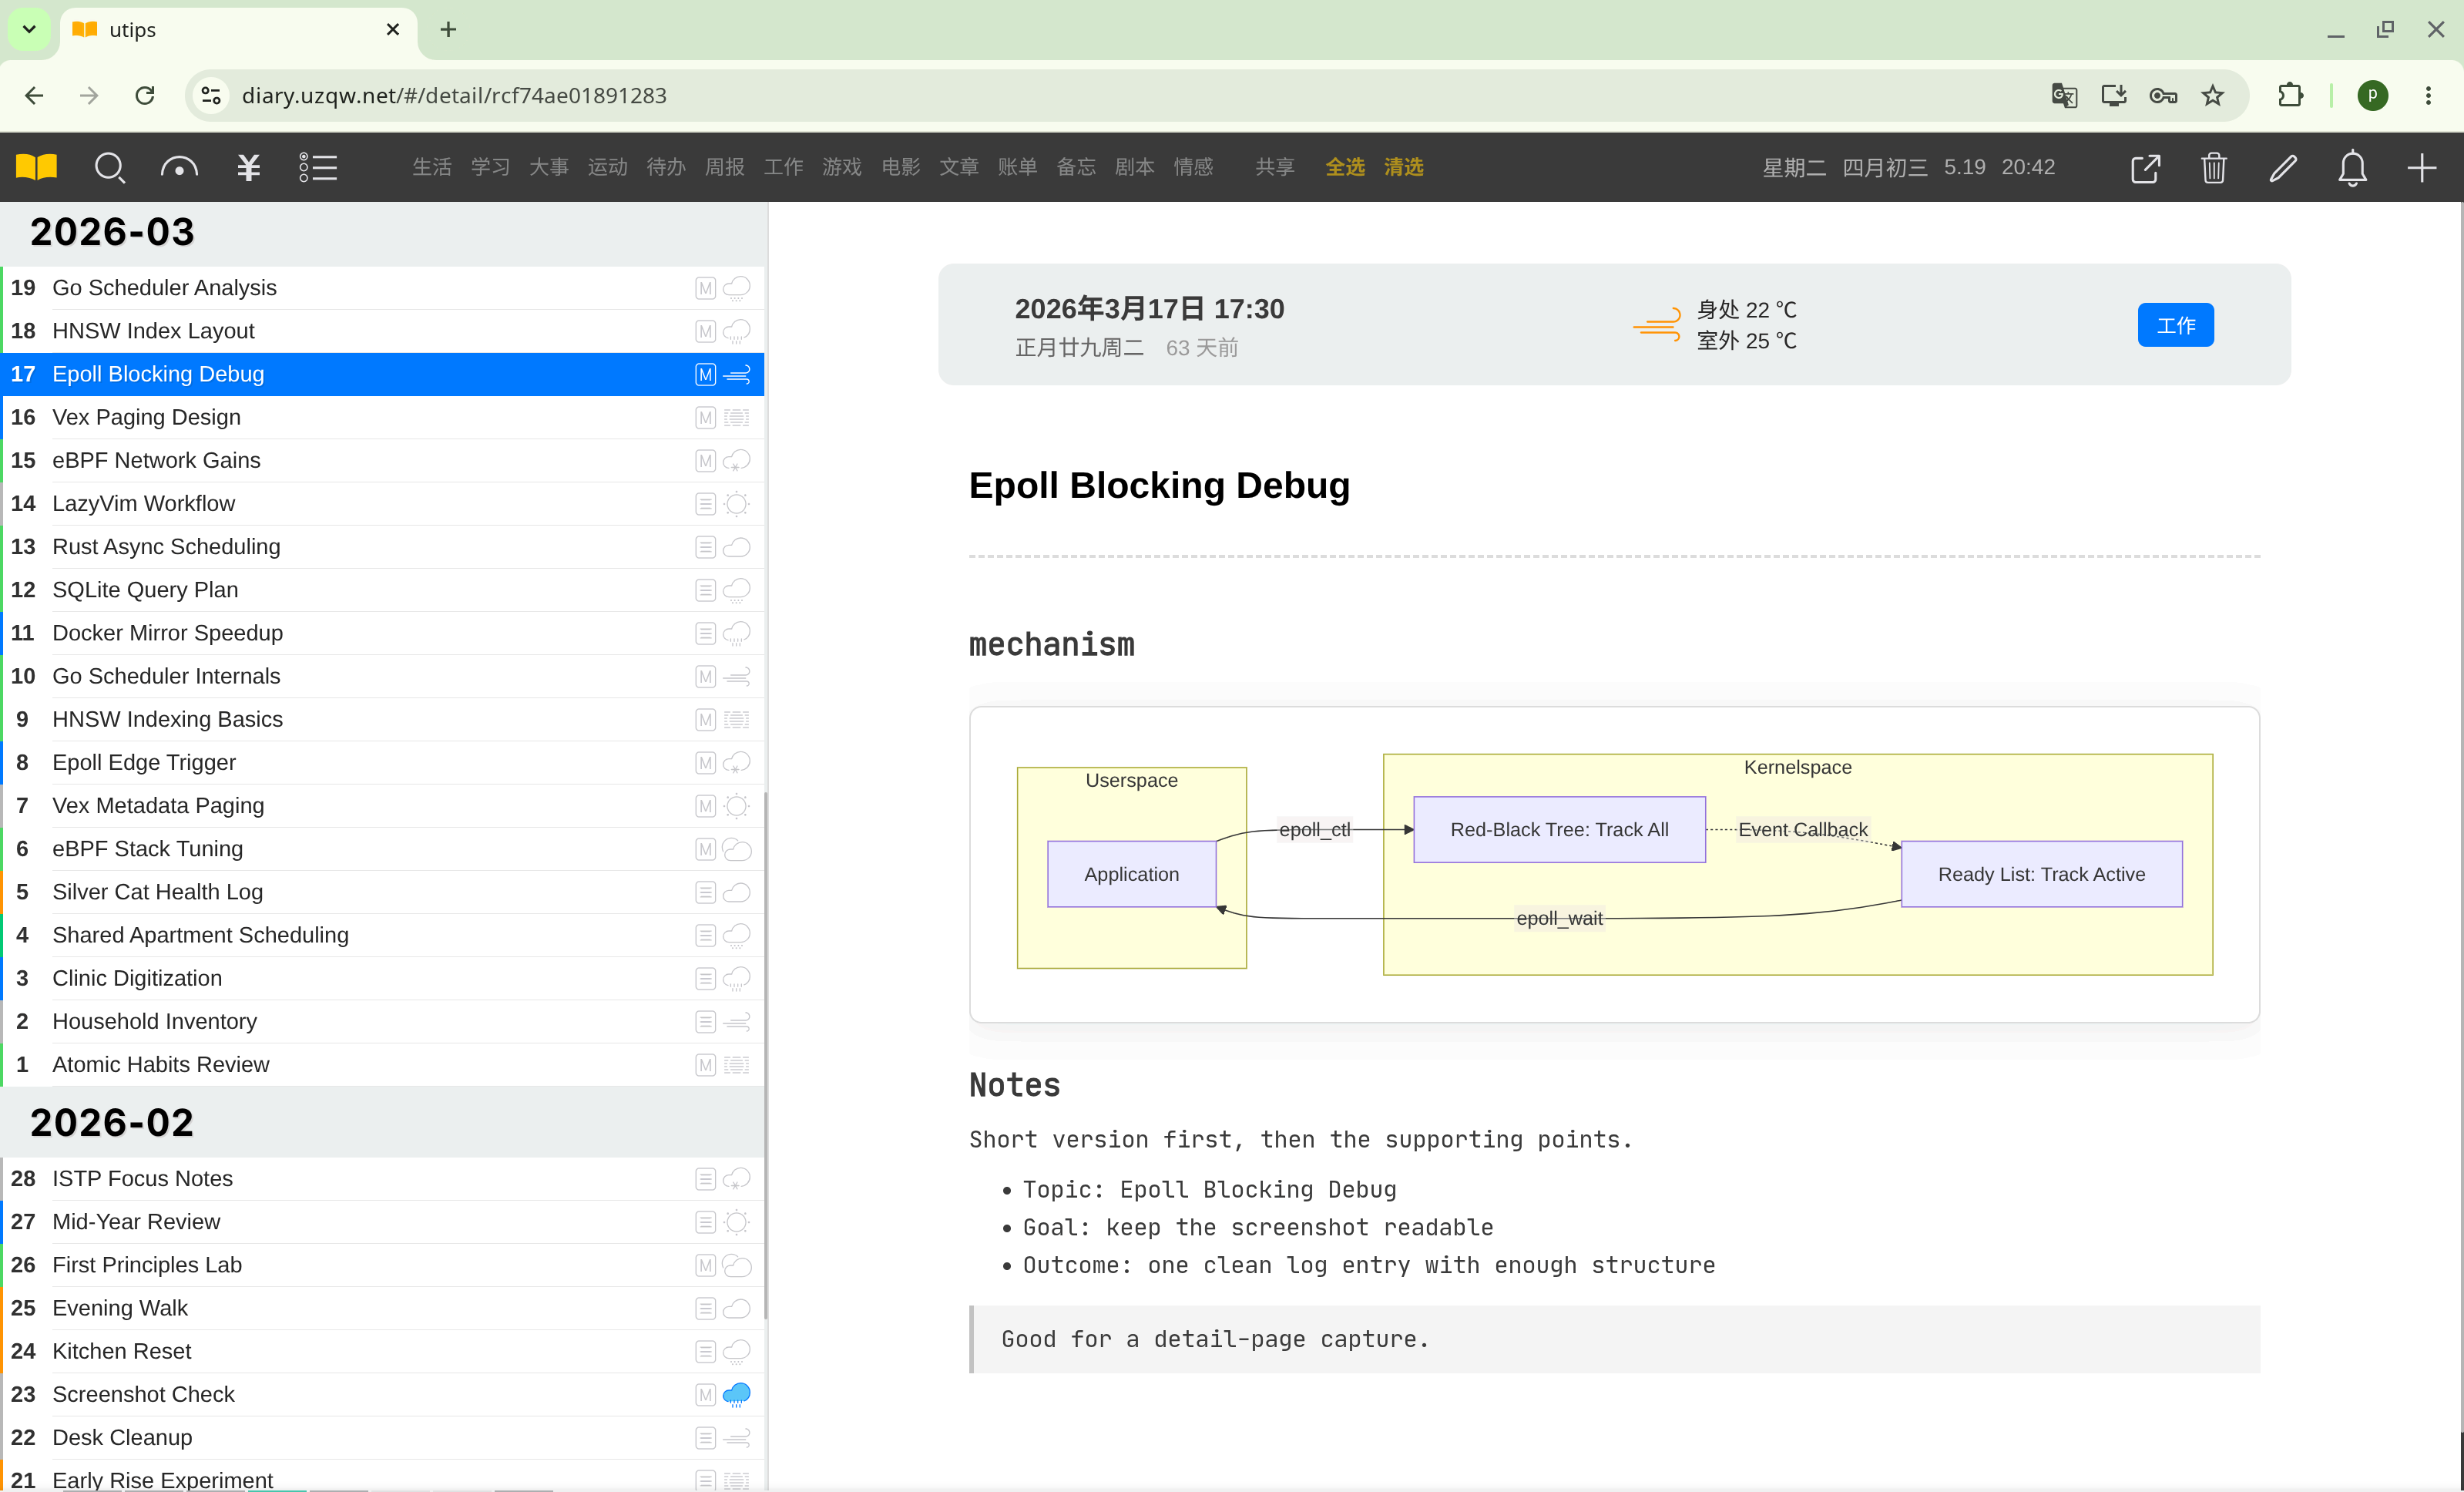
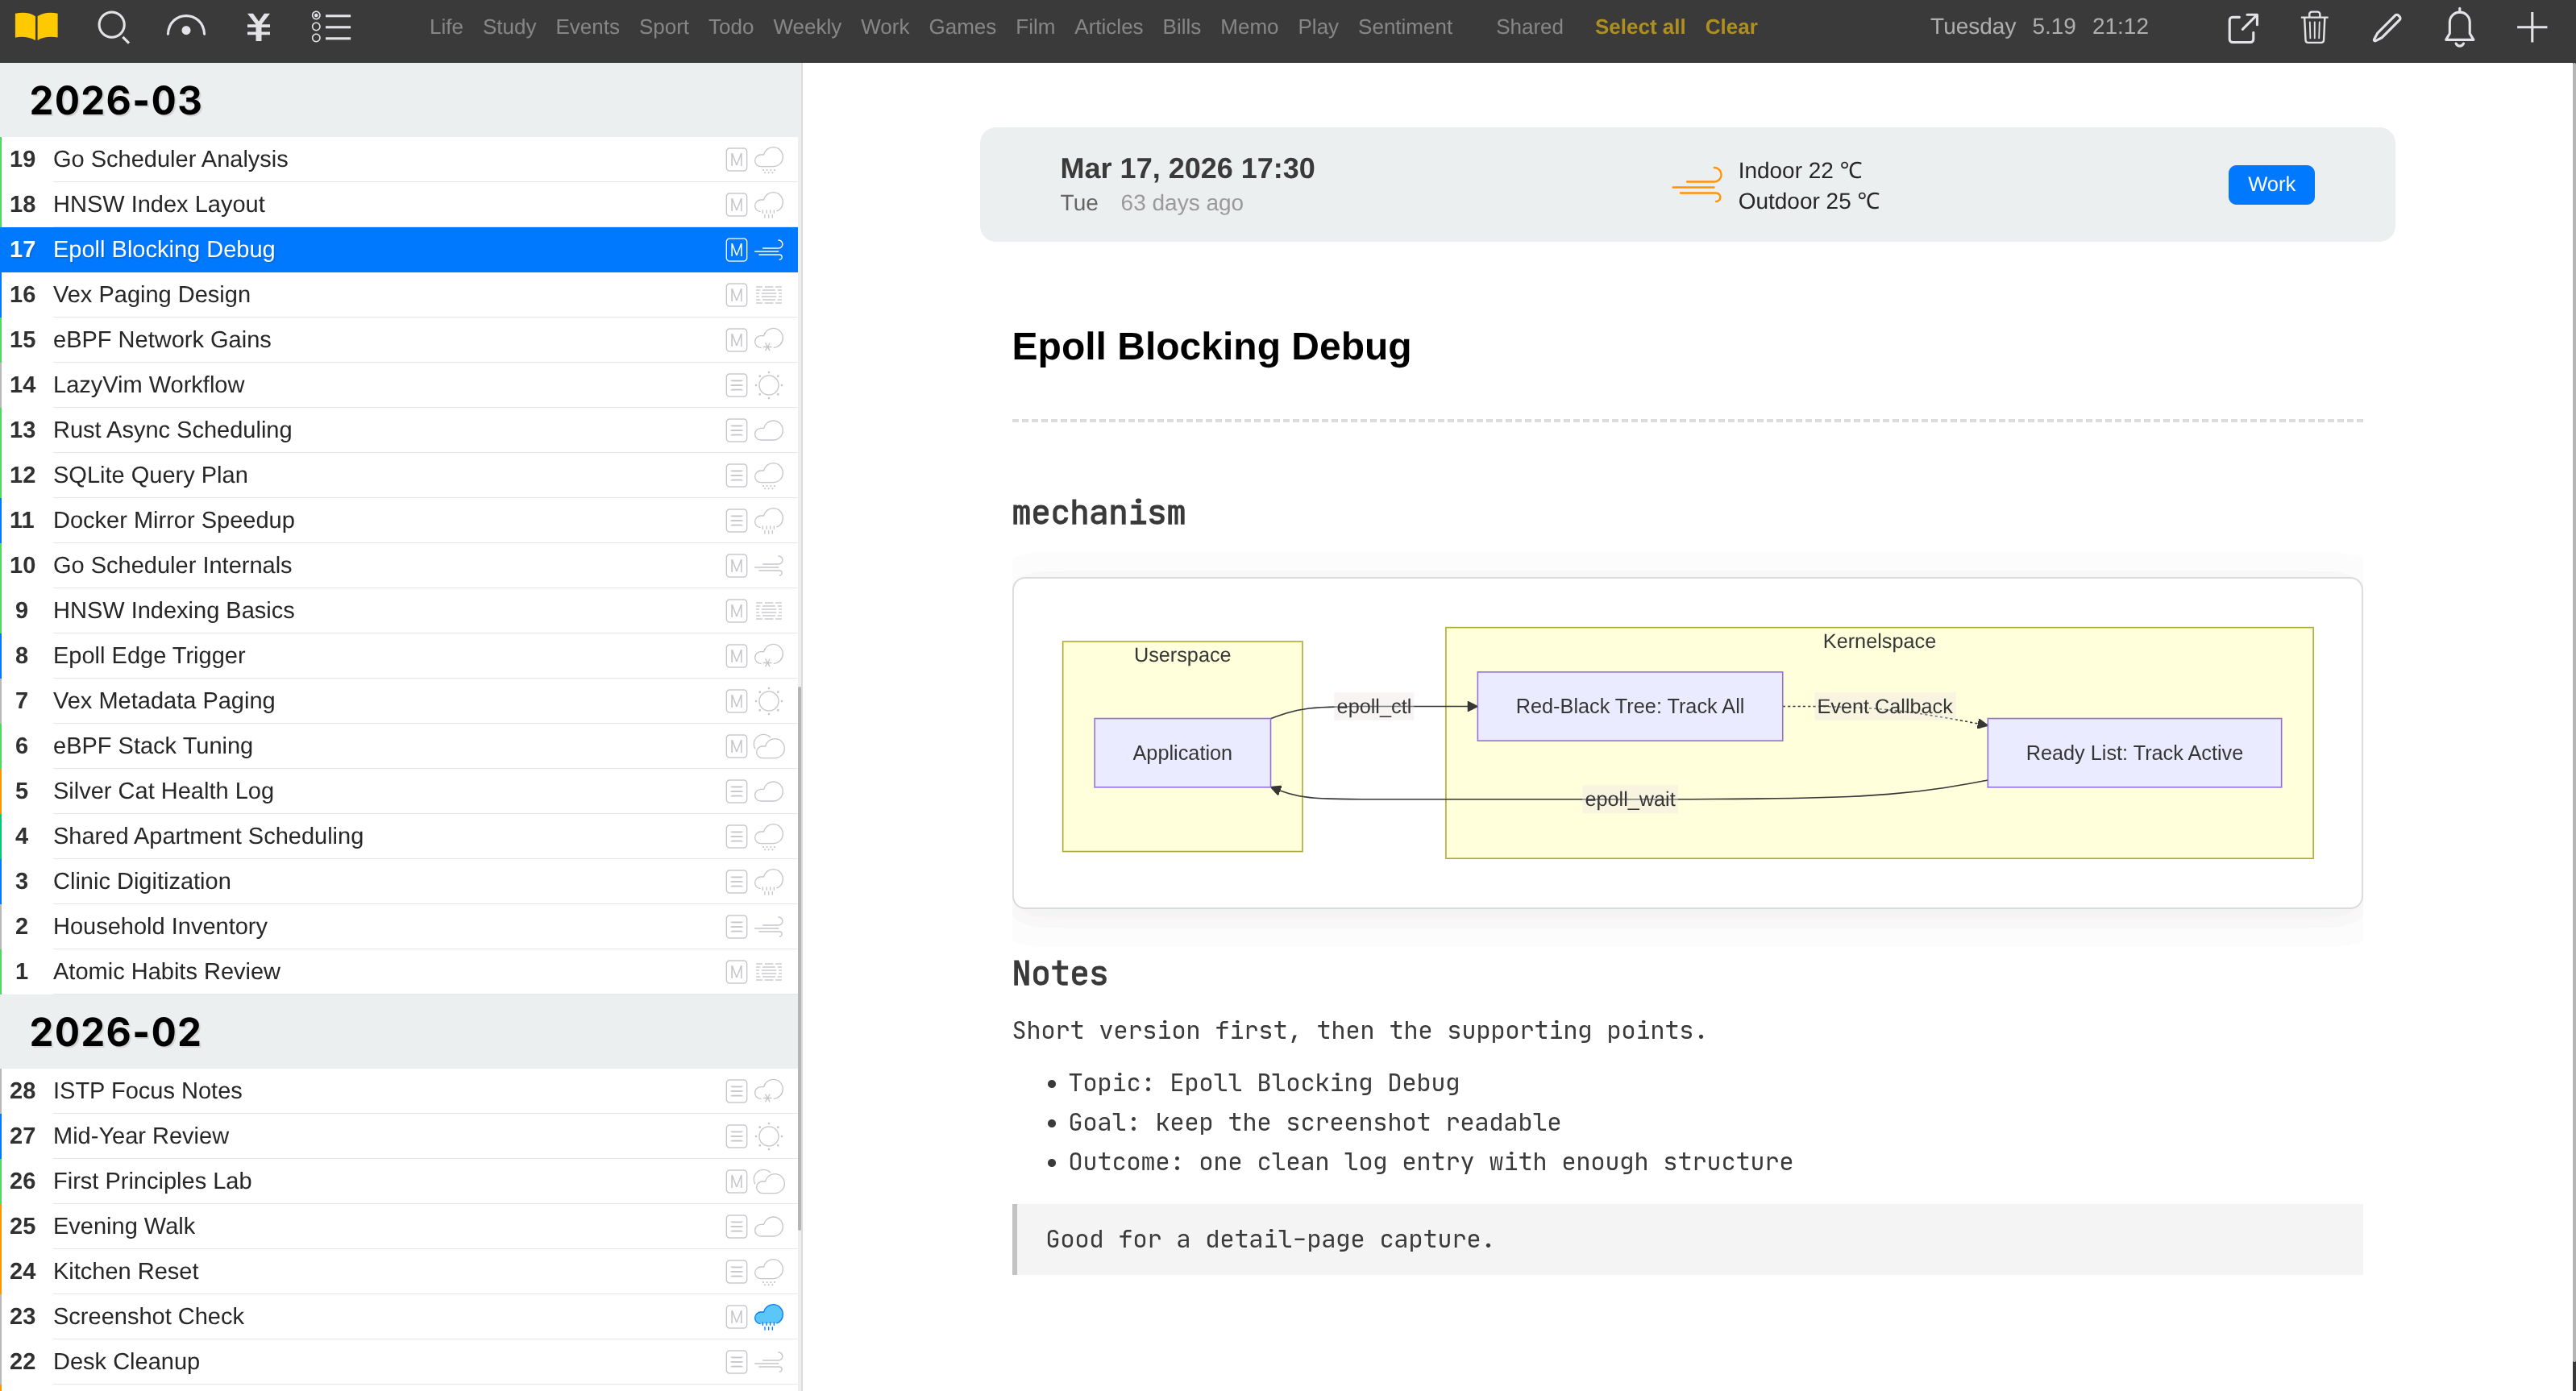
feat(docs): update screenshots and simplify project documentation in README files

diff --git a/README.md b/README.md
@@ -1,8 +1,8 @@
 # utips
 
-A diary application repository with a PocketBase backend and a Vue frontend.
-
-This repository is intentionally split by component because the backend and frontend use different licenses.
+> A diary application repository with a PocketBase backend and a Vue frontend.
+> This repository is intentionally split by component because the backend and frontend use different licenses.
+> Optimized: Docker image size < 40MB.
 
 [![中文文档](https://img.shields.io/badge/docs-%E4%B8%AD%E6%96%87-0F766E?style=flat-square)](./README.zh-CN.md)
 
@@ -22,17 +22,6 @@ make docker-deploy
 ```
 
 After `.env` is complete, `make docker-deploy` is the only deployment command you need. The service listens on `http://<server-ip>:17172` by default.
-
-## Licensing
-
-This is a multi-license repository:
-
-| Path | License | Notes |
-| --- | --- | --- |
-| `backend/` | MIT | PocketBase-based backend implementation. See `backend/LICENSE`. |
-| `frontend/` | GPL-3.0 | Based on `https://github.com/KyleBing/diary`. See `frontend/LICENSE`. |
-
-Do not treat the whole repository as a single-license project. When redistributing or modifying a component, follow the license for that component.
 
 ## Features
 

diff --git a/README.zh-CN.md b/README.zh-CN.md
@@ -1,11 +1,11 @@
 # utips
 
-这是一个日记应用仓库，后端使用 PocketBase，前端基于 Vue。
-
-本仓库按组件拆分目录，因为后端和前端使用不同开源协议。
+> 这是一个日记应用仓库，后端使用 PocketBase，前端基于 Vue。
+> 本仓库按组件拆分目录，因为后端和前端使用不同开源协议。
+> 优化后后的docker镜像小于40MB。
 
 <div align="center">
-  <img src="docs/screenshots/utips-screenshot-main.png" width="600">
+  <img src="docs/screenshots/utips-screenshot-main-zh-cn.png" width="600">
   <p><i>截图1: utips主界面</i></p>
 </div>
 